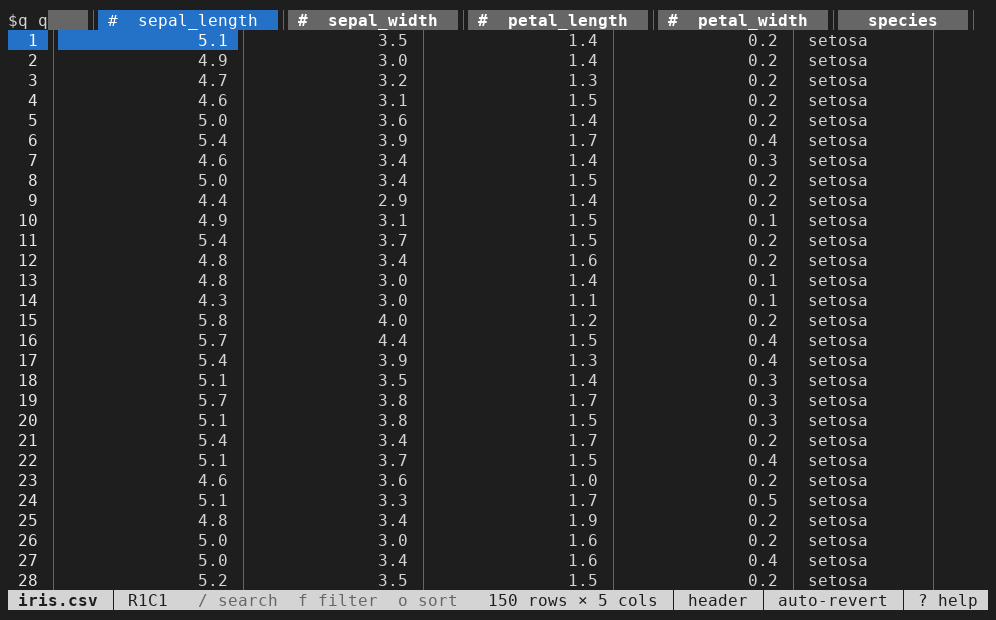
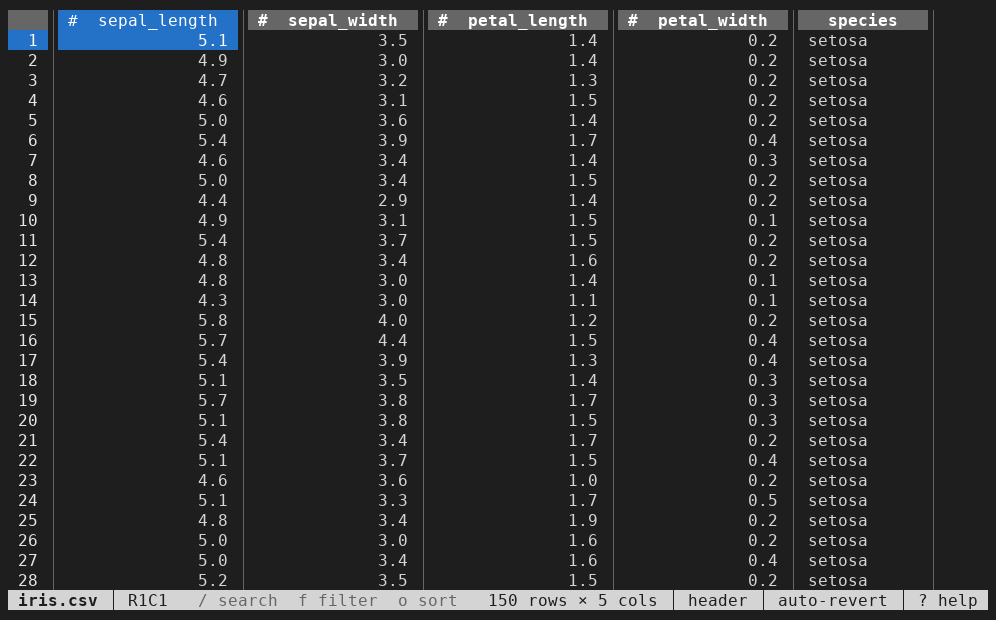
Fix terminal query text leaking into TUI screenshots
FTXUI sends a DCS cursor-style query before its first frame. Pyte does
not parse DCS sequences, so the query payload appeared as "$q q" at the
start of the manual's main TUI screenshot.

Discard DCS strings in the test terminal stream, including sequences
split across reads, and regenerate the screenshot. Add regression
coverage for read boundaries, UTF-8 text and normal ANSI colors.

Changed region(s): [[0.0, 0.0, 0.996, 0.0613]]

diff --git a/tests/tui/tui_harness.py b/tests/tui/tui_harness.py
@@ -26,6 +26,40 @@ class TuiTimeout(AssertionError):
     pass
 
 
+class TerminalStream(pyte.ByteStream):
+    """Keep DCS queries out of the screen; pyte does not parse them."""
+
+    def __init__(self, screen):
+        super().__init__(screen)
+        self._escape = False
+        self._in_dcs = False
+
+    def feed(self, data):
+        visible = bytearray()
+        for byte in data:
+            if self._in_dcs:
+                if (self._escape and byte == ord("\\")) or byte in (0x18, 0x1a):
+                    self._in_dcs = False
+                    self._escape = False
+                else:
+                    self._escape = byte == 0x1b
+            elif self._escape:
+                self._escape = False
+                if byte == ord("P"):
+                    self._in_dcs = True
+                else:
+                    visible.append(0x1b)
+                    if byte == 0x1b:
+                        self._escape = True
+                    else:
+                        visible.append(byte)
+            elif byte == 0x1b:
+                self._escape = True
+            else:
+                visible.append(byte)
+        super().feed(bytes(visible))
+
+
 class Tui:
     """One run of the TUI on a file. Use as a context manager."""
 
@@ -56,7 +90,7 @@ class Tui:
         self.extra_env = dict(env or {})
         # `screen`: a pyte.Screen class of the caller's (screenshots.py keeps dim text).
         self.screen = (screen or pyte.Screen)(columns, lines)
-        self.stream = pyte.ByteStream(self.screen)
+        self.stream = TerminalStream(self.screen)
         self.pid = None
         self.fd = None
         self.exit_status = None

diff --git a/tests/tui/test_tui.py b/tests/tui/test_tui.py
@@ -17,8 +17,10 @@ import sys
 import tempfile
 import unittest
 
+import pyte
+
 sys.path.insert(0, os.path.dirname(os.path.abspath(__file__)))
-from tui_harness import Tui  # noqa: E402
+from tui_harness import TerminalStream, Tui  # noqa: E402
 
 TABLESKIM = None
 DEMO_DATA = None
@@ -27,6 +29,27 @@ DEMO_DATA = None
 def status(tui):
     """The status line, at the bottom of the screen."""
     return tui.line(tui.lines - 1)
+
+
+class TerminalStreamTest(unittest.TestCase):
+    def test_dcs_query_is_not_drawn_at_any_read_boundary(self):
+        # FTXUI requests the cursor style before drawing its first frame.
+        data = b"\x1bP$q q\x1b\\\x1b[31mheader\x1b[0m"
+        for split in range(len(data) + 1):
+            with self.subTest(split=split):
+                screen = pyte.Screen(30, 2)
+                stream = TerminalStream(screen)
+                stream.feed(data[:split])
+                stream.feed(data[split:])
+                self.assertEqual(screen.display[0].rstrip(), "header")
+                self.assertEqual(screen.buffer[0][0].fg, "red")
+
+    def test_dcs_query_split_into_individual_bytes_preserves_utf8(self):
+        screen = pyte.Screen(30, 2)
+        stream = TerminalStream(screen)
+        for byte in "前\x1bP$q q\x1b\\後".encode():
+            stream.feed(bytes([byte]))
+        self.assertEqual(screen.display[0].rstrip(), "前後")
 
 
 class TuiTestCase(unittest.TestCase):
